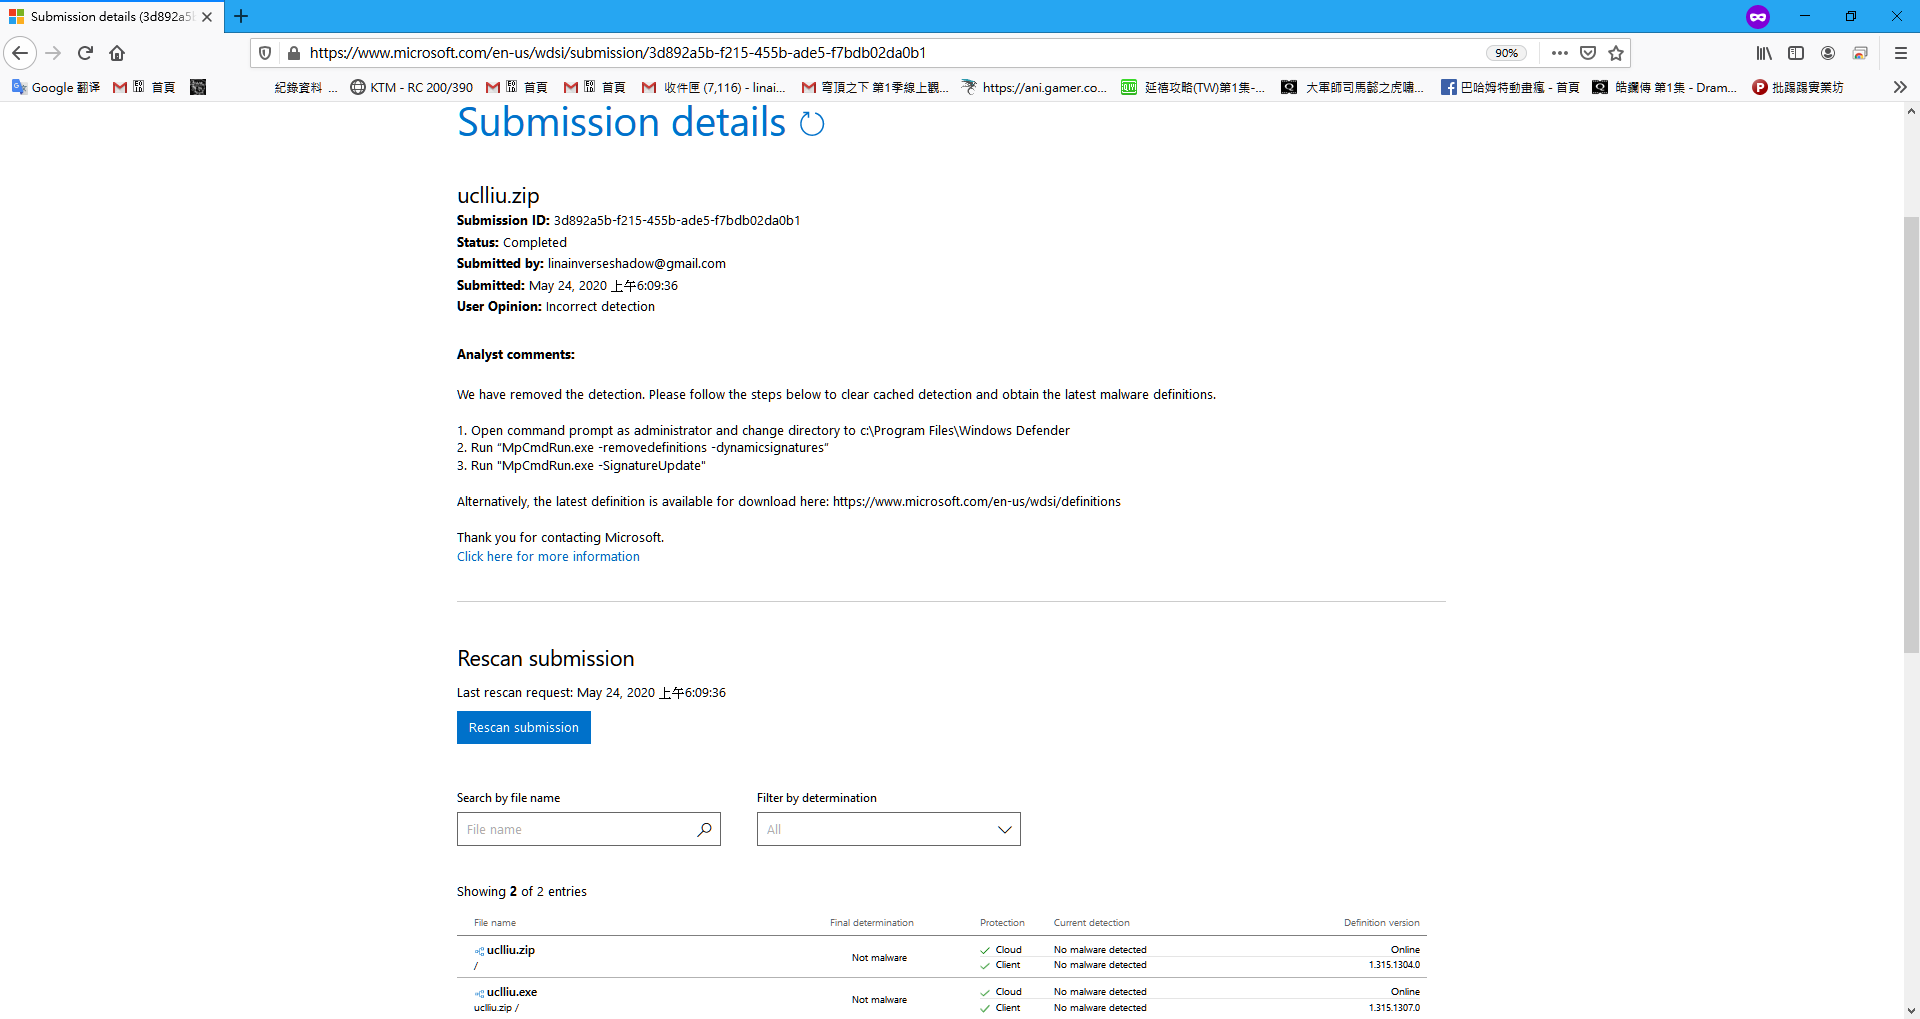
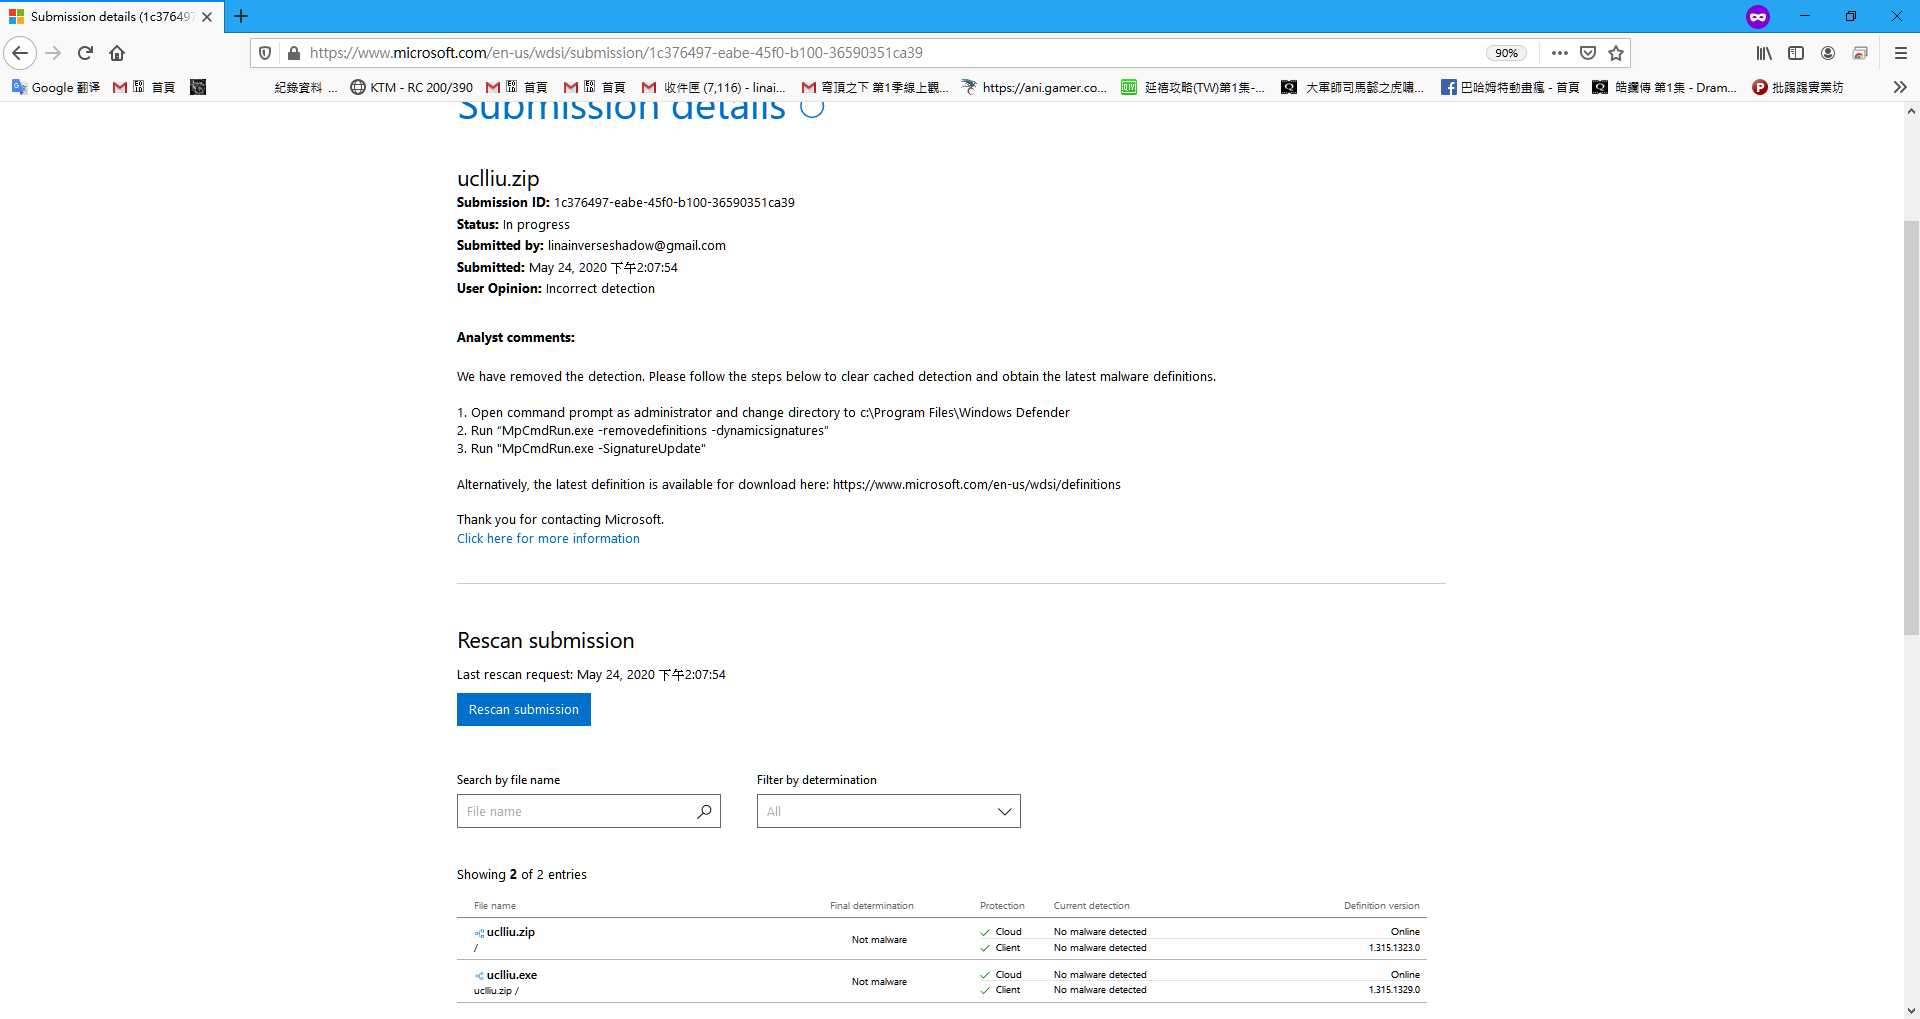
補掃描檔 1.26

diff --git a/README.md b/README.md
@@ -15,7 +15,7 @@
   <a target="_blank" href="mailto:uclliu.3wa@gmail.com">uclliu.3wa@gmail.com</a><br>
 <br>
 <h3>最初開發日期：</h3>2017-06-16 11:24<br>
-<h3>最後更新日期：</h3>2020-05-24 13:27
+<h3>最後更新日期：</h3>2020-05-24 13:28
 <br>
 <h3>版本：</h3>V 1.26<br>
 <br>
@@ -237,7 +237,7 @@
     2、(可開關)中文出字後，自動提示最短根
     
     (2020-05-24) V1.26 版：
-    病毒碼提交掃描：1.26 https://www.microsoft.com/en-us/wdsi/submission/3d892a5b-f215-455b-ade5-f7bdb02da0b1
+    病毒碼提交掃描：1.26 https://www.microsoft.com/en-us/wdsi/submission/1c376497-eabe-45f0-b100-36590351ca39
     1、同目錄下 1.wav ~ 9.wav 為隨機打字音檔，目錄下任意 wav 都可以讀入
     2、增加打字音勾選功能
     3、可以在 UCLLIU.ini 中調整打字音量，KEYBOARD_VOLUME 0~50
